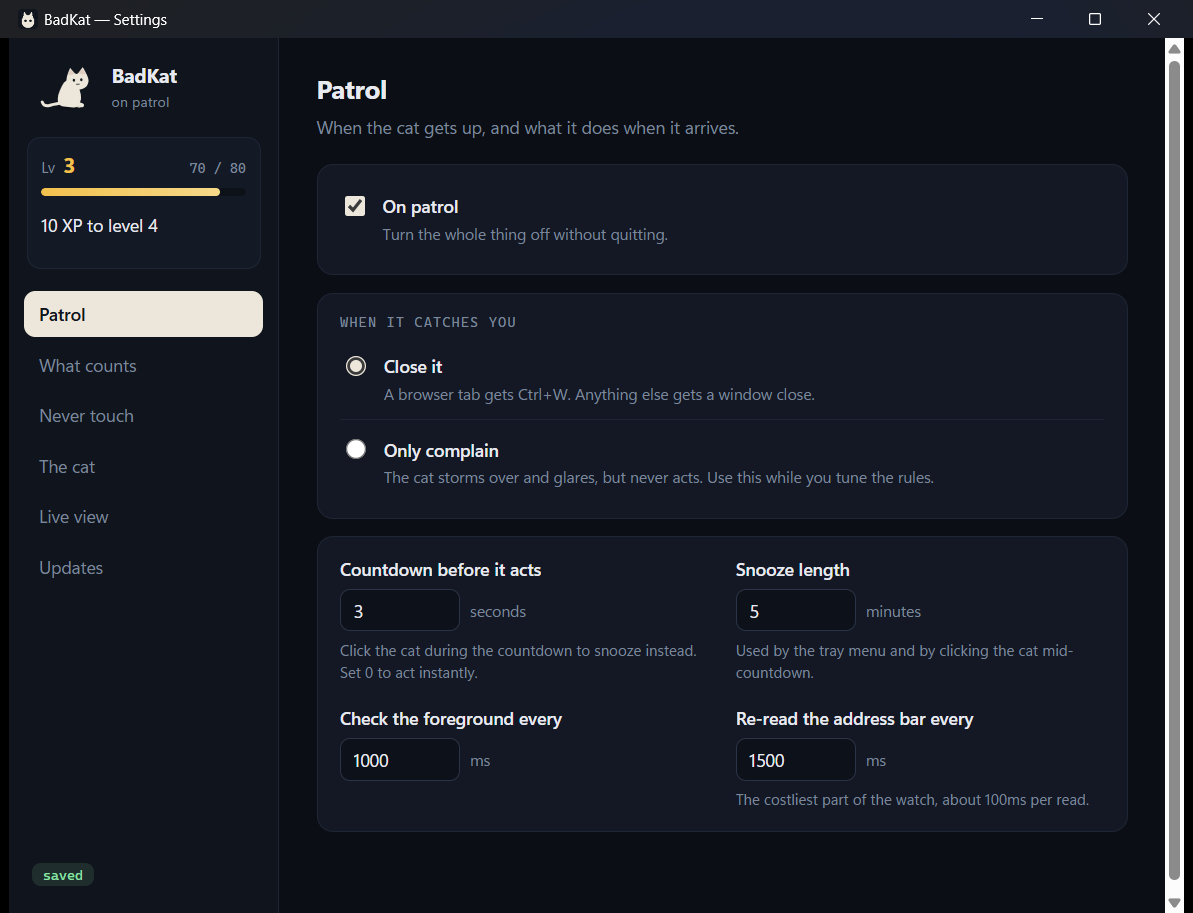
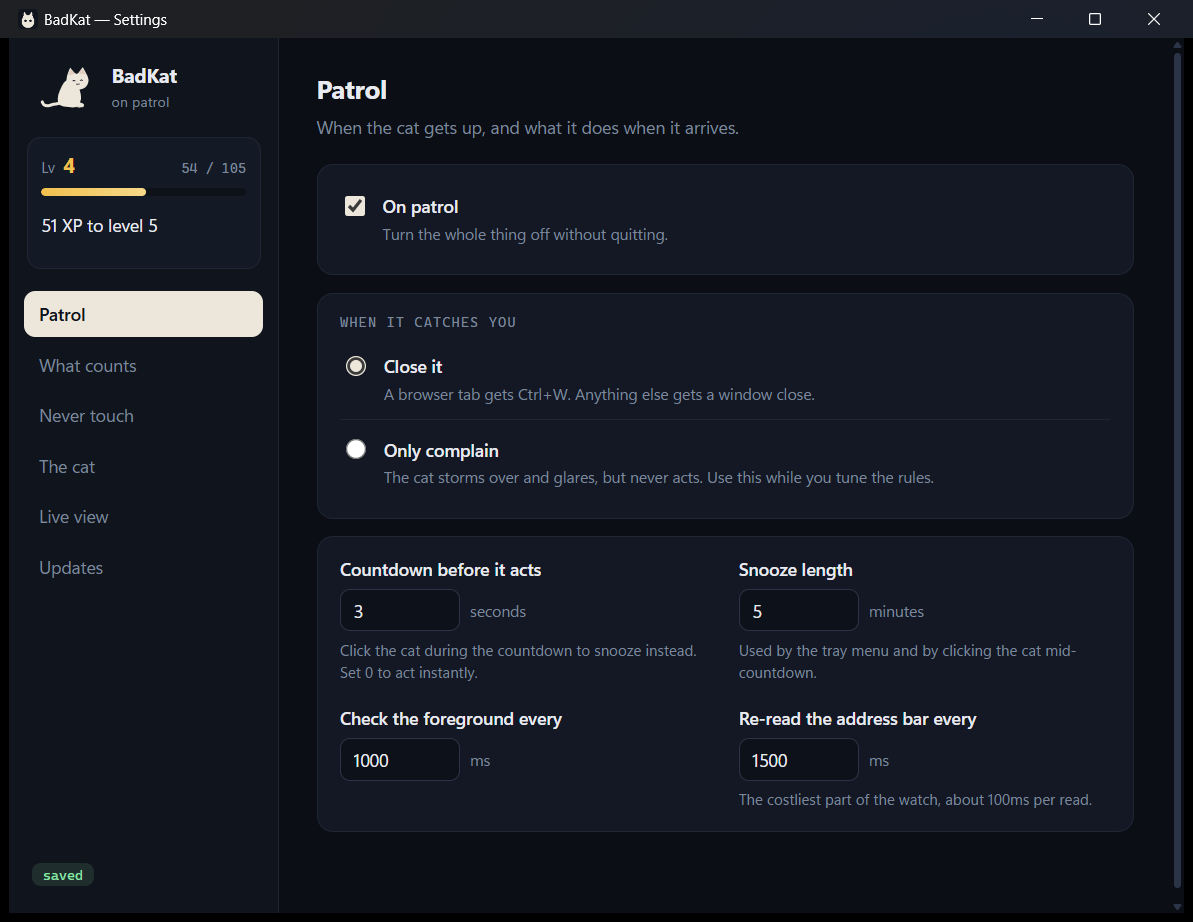
Give the settings window a scrollbar that matches its own chrome
The webview shipped the platform default: a chunky, opaque, light-grey
slab down the right edge of every panel that overflows, sitting on top
of the dark UI rather than in it. Replace it with a thin, trackless,
rounded thumb tinted to the panel border colour, brightening on hover
and on drag. Styled for both engines — ::-webkit-scrollbar for the
WebView2/WebKit side, scrollbar-width/scrollbar-color for Gecko.

Screenshots on the site refreshed from the running build so they show
the new scrollbar; their intrinsic height in index.html updated to
match the recapture (1193x922).

diff --git a/site/index.html b/site/index.html
@@ -126,7 +126,7 @@
     <h2>Everything is a setting, and nothing is a mystery.</h2>
 
     <figure class="shot wide">
-      <img src="shots/patrol.png" alt="The BadKat settings window, Patrol panel: an on-patrol switch, a choice between closing the window or only complaining, and fields for the countdown, snooze length and polling intervals." width="1193" height="913" loading="lazy" />
+      <img src="shots/patrol.png" alt="The BadKat settings window, Patrol panel: an on-patrol switch, a choice between closing the window or only complaining, and fields for the countdown, snooze length and polling intervals." width="1193" height="922" loading="lazy" />
       <figcaption>
         <b>Patrol</b> — how long it waits, what it does when it arrives, and how hard it
         looks. Set the countdown to zero if you want it merciless.
@@ -135,14 +135,14 @@
 
     <div class="shotgrid">
       <figure class="shot">
-        <img src="shots/rules.png" alt="The What counts panel, showing editable rules for YouTube Shorts, Instagram Reels and TikTok with their match patterns, grace periods and actions." width="1193" height="688" loading="lazy" />
+        <img src="shots/rules.png" alt="The What counts panel, showing editable rules for YouTube Shorts, Instagram Reels and TikTok with their match patterns, grace periods and actions." width="1193" height="922" loading="lazy" />
         <figcaption>
           <b>What counts</b> — every rule is editable. Match on the URL, the window title,
           the process, or all three.
         </figcaption>
       </figure>
       <figure class="shot">
-        <img src="shots/levels.png" alt="The cat panel, showing size and animation speed sliders, wander and doze toggles, and an affection section with level, windows closed, pats and total XP." width="1193" height="688" loading="lazy" />
+        <img src="shots/levels.png" alt="The cat panel, showing size and animation speed sliders, wander and doze toggles, and an affection section with level, windows closed, pats and total XP." width="1193" height="922" loading="lazy" />
         <figcaption>
           <b>The cat</b> — size, speed, whether it wanders, and what it has earned from
           you so far.

diff --git a/badkat/src/settings.css b/badkat/src/settings.css
@@ -30,6 +30,26 @@ html, body {
   overflow: hidden;
 }
 
+/* ---------- scrollbars ----------
+   The webview's default scrollbar is a chunky opaque slab that fights
+   the dark chrome. Slim it down, drop the track, and tint the thumb to
+   the panel lines so it reads as part of the surface, not on top of it. */
+* {
+  scrollbar-width: thin;                       /* Firefox / WebKitGTK */
+  scrollbar-color: var(--line-2) transparent;
+}
+::-webkit-scrollbar { width: 10px; height: 10px; }
+::-webkit-scrollbar-track { background: transparent; }
+::-webkit-scrollbar-corner { background: transparent; }
+::-webkit-scrollbar-thumb {
+  background: var(--line-2);
+  border: 3px solid transparent;               /* inset the thumb, so it looks ~4px wide */
+  border-radius: 999px;
+  background-clip: padding-box;
+}
+::-webkit-scrollbar-thumb:hover { background: #3a4560; }
+::-webkit-scrollbar-thumb:active { background: var(--muted); }
+
 .shell { display: flex; height: 100%; }
 
 /* ---------- sidebar ---------- */
